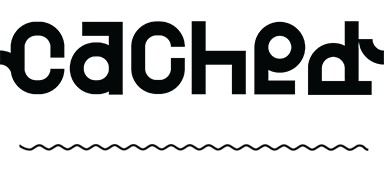
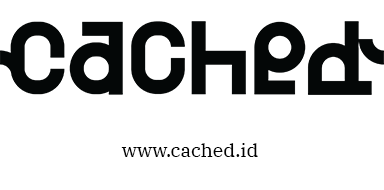
last changes in pc

diff --git a/printer.js b/printer.js
@@ -1,59 +1,73 @@
 
 const i18n = require('./i18n');
 
-
-// large logo
-// const logo = "./cachedRRR.png";
-const logo = "./cached_elsewhere.png";
+const logo = "/home/cachedv2/Desktop/Cached/printer/cached.png";
 
 module.exports = function({ lang, identifier, personalityStrings, extremes, market }, printer, callback) {
     initFormats();
     console.log("Start of printing instructions for ", identifier);
-    printer.left()
-    printEmptyLines(8)
-    printer.printImage(logo)
     printEmptyLines(5)
-    printer.horizontalLine(33)
-    printEmptyLines(3)
-    
-    // Intro
+    printer.printImage(logo)
+
+/*    // Intro
     printer
         .center()
         // .big(true)
-        .printLine(" www.cached.id ")
+        .printLine("www.cached.id")
         // .big(false)
         .printLine(" ")
-    
+*/
+
         // Name
     printer
+        .center()
         .bold(false)
         .big(true)
         .inverse(true)
         .printLine(" " + identifier + " ")
-        .inverse(false);
-    
+        .inverse(false)
+        .big(false)
+
     // Core Traits
+    printer.printLine(" ").horizontalLine(33)
     printTitle(i18n.coreTraits[lang]);
+    printer.
+        small(true);
     printArray(personalityStrings)
-    printer.printLine(" ").horizontalLine(33).printLine(" ")
+    printer.
+        small(false);
+    printer.printLine(" ").horizontalLine(33)
     // Extreme Characteristics
     printTitle(i18n.extreme[lang])
+    printer.
+        small(true);
     printArray(extremes)
-    printer.printLine(" ").horizontalLine(33).printLine("   ")
+    printer.
+        small(false);
+    printer.printLine(" ").horizontalLine(33)
     // Market Preferences
     printTitle(i18n.likely[lang])
+    printer.
+        small(true);
     printArray(market.likely)
+    printer.
+        small(false);
     printTitle(i18n.notLikely[lang])
+    printer.
+        small(true);
     printArray(market.notLikely)
-    
+    printer.
+        small(false);
+
     // End
     printer
         .printLine(" ")
-        // .printSodexoDrinks(); 
+        .printLine(" ")
+        // .printSodexoDrinks();
         .small(true)
         .center()
         .printLine("Thank you for trusting us.")
-        printEmptyLines(10)
+        printEmptyLines(8)
 
     function initFormats(){
         printer.inverse(false).big(false).small(true).left();

diff --git a/printerBuffer.js b/printerBuffer.js
@@ -3,7 +3,7 @@ const printFormatted = require('./printer.js');
 const SerialPort = require("serialport");
 const Printer = require("thermalprinter");
 const PrinterMock = require('./printer-mock.js');
-const SERIAL_PORT = '/dev/tty.usbserial-1420';
+const SERIAL_PORT = '/dev/ttyACM0';
 let buffer = []
 let printing = false
 
@@ -45,9 +45,9 @@ function initializePrinter(callback) {
       // PrinterMock allows to run without the printer connected \o/
       printer = new Printer(serialPort, {
         maxPrintingDots: 6,
-        heatingTime: 105,
-        heatingInterval: 6,
-        commandDelay: 50
+        heatingTime: 110,
+        heatingInterval: 5,
+        commandDelay: 10
       });
       printer.on("ready", callback)
     })

diff --git a/index.js b/index.js
@@ -5,7 +5,7 @@ const io = require('socket.io-client');
 
 const PORT = 3001;
 
-const url = "https://ws.cached.id/";
+const url = "https://web.cached.id/";
 var socket = io.connect(url);
 socket.on("print", (data) => printFromJSON(data))
 socket.on("connect", (s) => console.log("Websocket Plugged"))

diff --git a/demo.js b/demo.js
@@ -5,7 +5,7 @@ const data = require('./demo_data.json');
 
     const lang = data.lang.toUpperCase();
 
-    const serialPort = new SerialPort('/dev/tty.usbmodem14101', {
+    const serialPort = new SerialPort('/dev/ttyACM0', {
       baudRate: 19200,
     });
 
